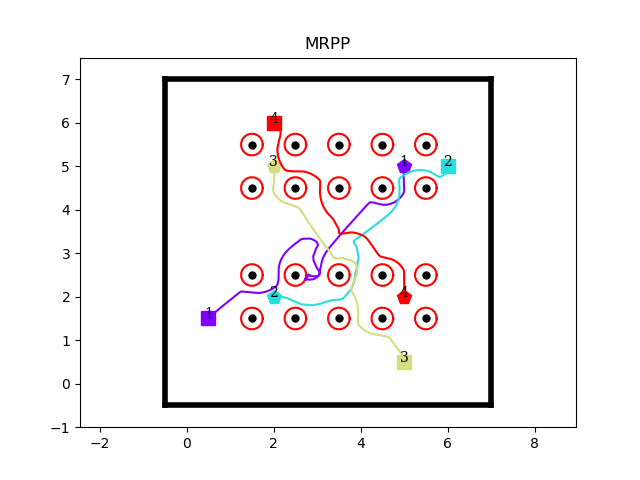
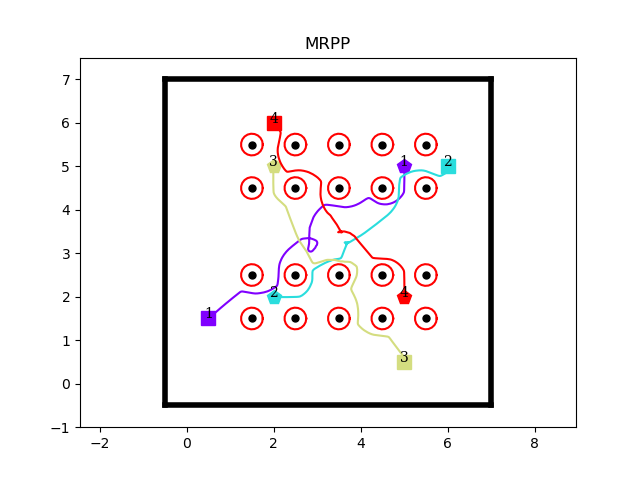
test p3

diff --git a/scripts/parameters.py b/scripts/parameters.py
@@ -27,9 +27,9 @@ class Params(object):
         self.path_unit = 0.5
 
         self.zeta = 1
-        self.robot_r = 0.65      #(0.5)        # robots effective radius
+        self.robot_r = 0.65              # robots effective radius
         self.danger_r = 0.25             # real obst radius
-        self.obs_effect_r = 0.55  #(1) /0.55          # obstacles effective radius
+        self.obs_effect_r = 0.55 #1.0          # obstacles effective radius
         self.goal_distance = 1000
         self.ac_name = "/apf_action"
         self.pose_srv_name = "/pose_service"
@@ -40,5 +40,5 @@ class Params(object):
         self.dis_tresh = 0.05 #0.2
         self.f_theta_min = 1
         self.f_theta_max = 5
-        self.theta_thresh = 30*np.pi/180 #(30)
+        self.theta_thresh = 90*np.pi/180
 
